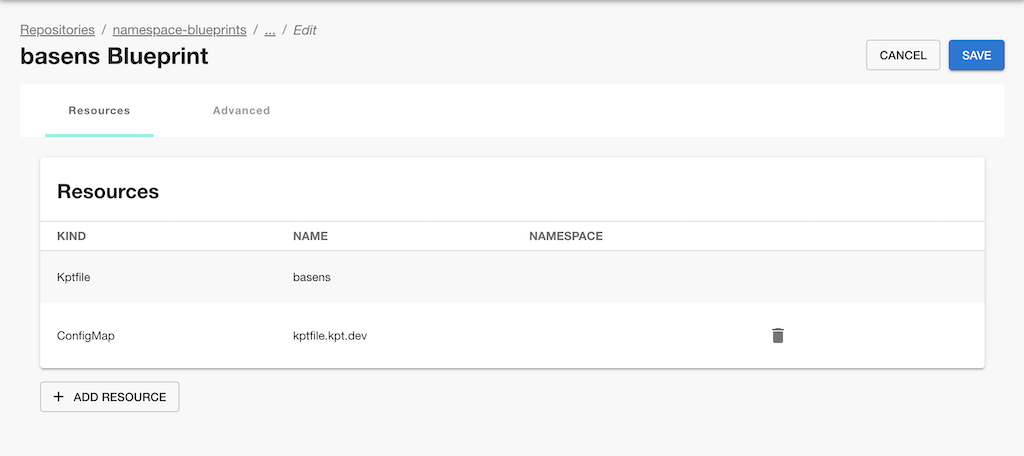
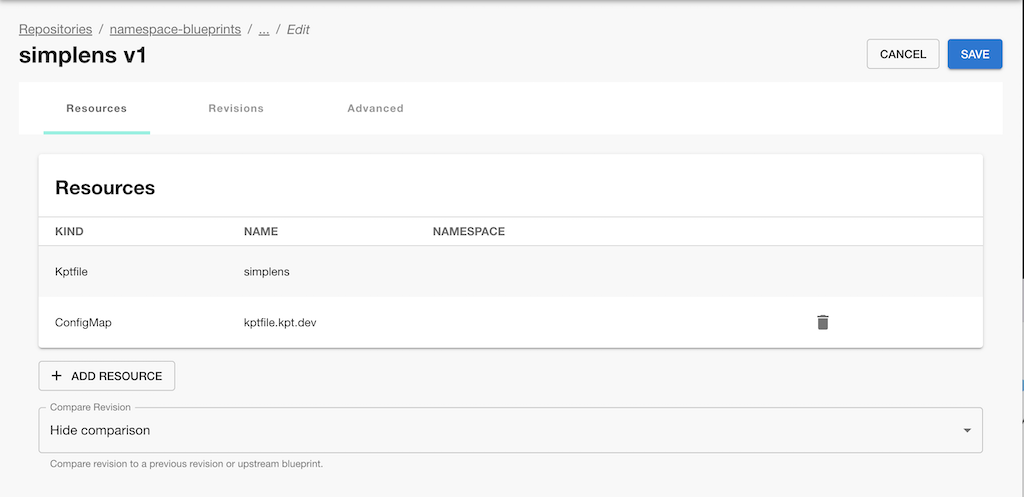
docs: update namespace provisioning ui guide

diff --git a/site/guides/namespace-provisioning-ui.md b/site/guides/namespace-provisioning-ui.md
@@ -1,6 +1,6 @@
 # Namespace provisioning example using UI
 
-In this guide, we will use the package orchestration UI to:
+In this guide, we will use the Config as Data UI to:
 
 - Register blueprint and deployment repositories
 - Create a `kpt` package from scratch in blueprint repo
@@ -9,9 +9,9 @@ In this guide, we will use the package orchestration UI to:
 
 ## Prerequisites
 
-Before we begin, ensure that you are able to access the Configuration as Data
-UI. The UI is provided as [Backstage](https://backstage.io) plugin and can be
-accessed at `[BACKSTAGE_BASE_URL]/config-as-data`.
+Before we begin, ensure that you are able to access the Config as Data UI. The
+UI is provided as [Backstage](https://backstage.io) plugin and can be accessed
+at `[BACKSTAGE_BASE_URL]/config-as-data`.
 
 _If you don't have a UI installed, follow the steps in
 [UI installation guide](guides/porch-ui-installation.md) to install the UI._
@@ -66,7 +66,7 @@ blueprint using the UI.
   repo, list will be empty.
 - Click on `Add Blueprint` button in the upper right corner to create a new
   blueprint.
-- In `Add Blueprint`, create a new blueprint with the name `basens`.
+- In `Add Blueprint`, create a new blueprint with the name `simplens`.
   ![add-blueprint](/static/images/porch-ui/blueprint/add-blueprint.png)
 - After completing the above flow, you`ll be taken to your newly created
   blueprint (see screenshot below). Here you will have a chance to add, edit,
@@ -136,10 +136,10 @@ instance of a blueprint.
 - Select a deployment repository by clicking on it.
   ![deployment-repo-empty](/static/images/porch-ui/deployment/deployment-repo-empty.png)
 - Click on the `Upstream Repository` link to navigate to the blueprints
-  repository and here you should see `basens` blueprint.
+  repository and here you should see `simplens` blueprint.
   ![blueprints-list](/static/images/porch-ui/deployment/blueprints-list.png)
-- Click on the `basens` blueprint.
-  ![show-basens-blueprint](/static/images/porch-ui/deployment/show-basens-blueprint.png)
+- Click on the `simplens` blueprint.
+  ![show-blueprint](/static/images/porch-ui/deployment/show-blueprint.png)
 - Click the `Deploy` button in the upper right corner to take you to the
   `Add Deployment` flow. Create the new deployment with the name `backend`.
   ![add-deployment](/static/images/porch-ui/deployment/add-deployment.png)
@@ -166,4 +166,4 @@ instance of a blueprint.
   ![synced-deployment-screenshot](/static/images/porch-ui/deployment/synced-deployment-list.png)
 
 So, this completes our end to end workflow of creating a blueprint from scratch
-and deploying it to a kubernetes cluster using package orchestraction UI.
+and deploying it to a kubernetes cluster using the Config as Data UI.
